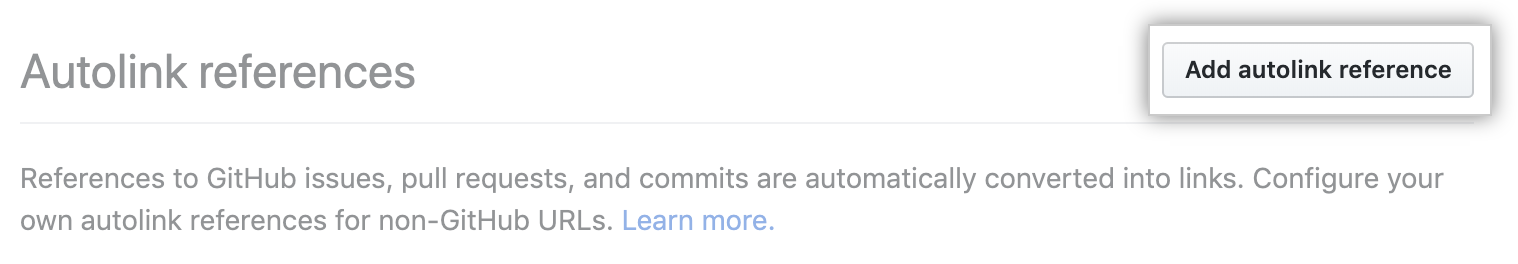
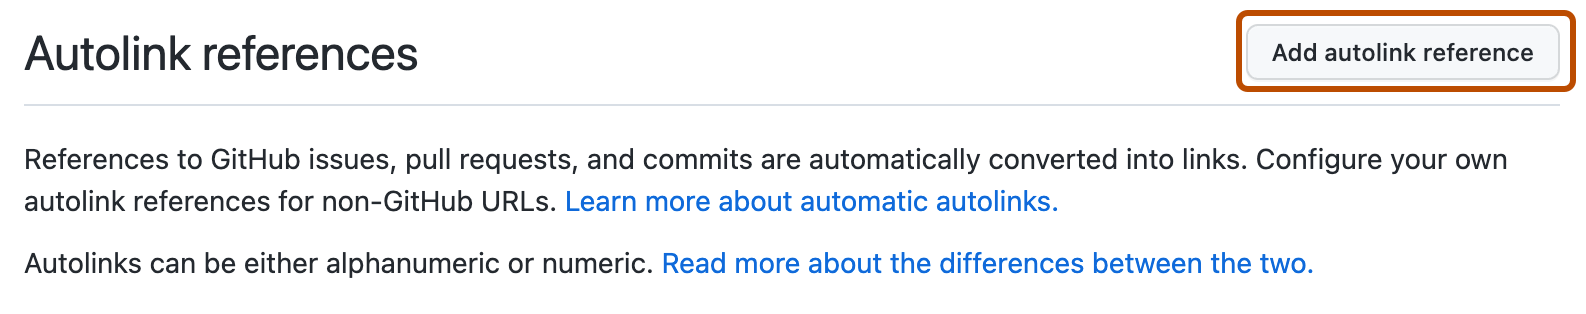
[Accessibility] More screenshot updates for `A` in the repositories directory (#34908)

diff --git a/content/repositories/managing-your-repositorys-settings-and-features/managing-repository-settings/configuring-autolinks-to-reference-external-resources.md b/content/repositories/managing-your-repositorys-settings-and-features/managing-repository-settings/configuring-autolinks-to-reference-external-resources.md
@@ -35,20 +35,21 @@ This procedure demonstrates how to configure autolinks to reference external res
 {% data reusables.repositories.navigate-to-repo %}
 {% data reusables.repositories.sidebar-settings %}
 {% ifversion fpt or ghec or ghes > 3.4 or ghae > 3.4 %}
-1. In the "Integrations" section of the sidebar, click **{% octicon "cross-reference" aria-label="The cross-reference icon" %} Autolink references**.
+1. In the "Integrations" section of the sidebar, click **{% octicon "cross-reference" aria-label="" %} Autolink references**.
 {% else %}
 1. In the left sidebar, click **Autolink references**.
-![Autolink references tab in the left sidebar.](/assets/images/help/repository/autolink-references-tab.png)
 {% endif %}
-1. Click **Add autolink reference**.
-![Button to fill out autolink reference information.](/assets/images/help/repository/add-autolink-reference-details.png)
+1. At the top right of the page, click **Add autolink reference**.
+
+  ![Screenshot of the "autolink references" page. The "Add autolink reference" button is highlighted by a dark orange outline.](/assets/images/help/repository/add-autolink-reference-details.png)
 {% ifversion autolink-reference-alphanumeric %}
-1. Select the format of the reference identifier used in the external resource, either alphanumeric or numeric.
-![Autolink format setting, alphanumeric or numeric.](/assets/images/help/repository/autolink-format-setting.png)
+1. Select the format of the reference identifier used in the external resource, either **Alphanumeric** or **Numeric**.
 {% endif %}  
-1. Under "Reference prefix", type a short, meaningful prefix you want collaborators to use to generate autolinks for the external resource.
-{% ifversion autolink-reference-alphanumeric %}![Field to type abbreviation for external system.](/assets/images/help/repository/add-reference-prefix-field-alphanumeric.png){% else %}![Field to type abbreviation for external system.](/assets/images/help/repository/add-reference-prefix-field.png){% endif %}
-1. Under "Target URL", type the link to the external system you want to link to. Use the `<num>` variable as a placeholder for the reference identifier.
-{% ifversion autolink-reference-alphanumeric %}![Field to type URL to external system.](/assets/images/help/repository/add-target-url-field-alphanumeric.png){% else %}![Field to type URL to external system.](/assets/images/help/repository/add-target-url-field.png){% endif %}
-1. Click **Add autolink reference**.
-{% ifversion autolink-reference-alphanumeric %}{% else %}![Button to add autolink reference.](/assets/images/help/repository/add-autolink-reference.png){% endif %}
+1. Under "Reference prefix", type a short, meaningful prefix. Collaborators will use this text to generate autolinks for the external resource.
+1. Under "Target URL", type the format of the link to the external system you want to create. Use the `<num>` variable as a placeholder for the reference identifier.
+1. Review the preview and verify that the autolink and external reference are both correct, then click **Add autolink reference** to define the link.
+
+For example, you might enter the following.
+- Reference prefix: `JIRA-`
+- Target URL: `https://jira.example.com/issue?query=<num>`
+- Preview: `JIRA-123` is converted to `https://jira.example.com/issue?query=123`

diff --git a/content/communities/setting-up-your-project-for-healthy-contributions/about-community-profiles-for-public-repositories.md b/content/communities/setting-up-your-project-for-healthy-contributions/about-community-profiles-for-public-repositories.md
@@ -17,15 +17,15 @@ The community profile checklist checks to see if a project includes recommended 
 
 ## Using the community profile checklist as a repository maintainer
 
-As a repository maintainer, use the community profile checklist to see if your project meets the recommended community standards to help people use and contribute to your project. For more information, see "[Building community](https://opensource.guide/building-community/)" in the Open Source Guides.
+As a repository maintainer, you can use the community standards checklist to see if your project meets the recommended community standards to help people use and contribute to your project. For more information, see "[Building community](https://opensource.guide/building-community/)" in the Open Source Guides.
 
-If a project doesn't have a recommended file, you can click **Add** to draft and submit a file.
+If a project doesn't have one of the recommended files, you can click the associated **Add** button to draft and submit a file.
 
-{% data reusables.repositories.valid-community-issues %} For more information, see "[AUTOTITLE](/communities/using-templates-to-encourage-useful-issues-and-pull-requests/about-issue-and-pull-request-templates)."
-
-![Community profile checklist with recommended community standards for maintainers](/assets/images/help/repository/add-button-community-profile.png)
+![Screenshot of the "Community Standards" maintainer checklist. Each item has an "Added" label (green checkmark) or a "Not added yet" label (orange circle).](/assets/images/help/repository/add-button-community-profile.png)
 
 {% data reusables.repositories.security-guidelines %}
+
+{% data reusables.repositories.valid-community-issues %} For more information, see "[AUTOTITLE](/communities/using-templates-to-encourage-useful-issues-and-pull-requests/about-issue-and-pull-request-templates)."
 
 ## Using the community profile checklist as a community member or collaborator
 
@@ -33,7 +33,7 @@ As a potential contributor, use the community profile checklist to see if a proj
 
 If a project doesn't have a recommended file, you can click **Propose** to draft and submit a file to the repository maintainer for approval.
 
-![Community profile checklist with recommended community standards for contributors](/assets/images/help/repository/propose-button-community-profile.png)
+![Screenshot of the "Community Standards" contributor checklist. Each item has an "Added" label (green checkmark) or a "Not added yet" label (orange circle).](/assets/images/help/repository/propose-button-community-profile.png)
 
 ## Further reading
 

diff --git a/content/communities/using-templates-to-encourage-useful-issues-and-pull-requests/configuring-issue-templates-for-your-repository.md b/content/communities/using-templates-to-encourage-useful-issues-and-pull-requests/configuring-issue-templates-for-your-repository.md
@@ -25,16 +25,15 @@ shortTitle: Configure
 
 {% data reusables.repositories.navigate-to-repo %}
 {% data reusables.repositories.sidebar-settings %}
-3. In the "Features" section, under "Issues," click **Set up templates**.
-![Start template setup button](/assets/images/help/repository/set-up-templates.png)
-4. Use the Add template drop-down menu, and click on the type of template you'd like to create.
-![Add template drop-down menu](/assets/images/help/repository/add-template-drop-down-menu.png)
+3. In the "Features" section, under "Issues," click **Set up templates**. You may need to enable "Issues" and refresh the page before you can see the button.
+4. Use the Add template dropdown menu, and click on the type of template you'd like to create.
+
+![Screenshot of the "Add template" dropdown menu expanded to show the standard "Bug report" and "Feature request" templates. In addition, the "Custom template" is listed.](/assets/images/help/repository/add-template-drop-down-menu.png)
 5. To preview or edit the template before committing it to the repository, click **Preview and edit**.
 ![Preview and edit button](/assets/images/help/repository/preview-and-edit-button.png)
 6. To edit the template, click {% octicon "pencil" aria-label="The edit icon" %}, and type in the fields to edit their contents.
 ![Issue template edit button](/assets/images/help/repository/issue-template-edit-button.png)
-7. To automatically set a default issue title, assign the issue to people with read access to the repository, or apply labels to your issue template, enter these details under "Optional additional information." You can also add these details in the issue template with `title`, `labels`, or `assignees` in a YAML frontmatter format.
-![Additional info for issue template](/assets/images/help/repository/additional-issue-template-info.png)
+7. To automatically set a default issue title, assign the issue to people with read access to the repository, or apply labels to issues raised from the template, use the fields under "Optional additional information." You can also add these details in the issue template with `title`, `labels`, or `assignees` in a YAML frontmatter format.
 8. When you're finished editing and previewing your template, click **Propose changes** in the upper right corner of the page.
 ![Propose changes button](/assets/images/help/repository/propose-changes-button.png)
 9. Enter a commit message describing your changes.

diff --git a/content/repositories/managing-your-repositorys-settings-and-features/customizing-your-repository/classifying-your-repository-with-topics.md b/content/repositories/managing-your-repositorys-settings-and-features/customizing-your-repository/classifying-your-repository-with-topics.md
@@ -46,9 +46,13 @@ When creating a topic:
 {% endnote %}
 
 {% data reusables.repositories.navigate-to-repo %}
-2. To the right of "About", click {% octicon "gear" aria-label="The Gear icon" %}.
-  ![Gear icon on main page of a repository](/assets/images/help/repository/edit-repository-details-gear.png)
-3. Under "Topics", type the topic you want to add to your repository, then type a space.
-  ![Form to enter topics](/assets/images/help/repository/add-topic-form.png)
-4. After you've finished adding topics, click **Save changes**.
-  !["Save changes" button in "Edit repository details"](/assets/images/help/repository/edit-repository-details-save-changes-button.png)
+2. In the top right corner of the page, to the right of "About", click {% octicon "gear" aria-label="Edit repository metadata" %}.
+  
+  ![Screenshot of the top right of the main page for a repository. The "Edit repository metadata" button, shown as a gear icon, is outlined in orange.](/assets/images/help/repository/edit-repository-details-gear.png)
+  
+3. Under "Topics", start to type the topic you want to add to your repository to display a dropdown menu of any matching topics. Click the topic you want to add or continue typing to create a new topic.
+  
+  ![Screenshot of the "Topics" field showing example topics: "docs" and "works-with-codespaces." A "Suggested" topic "documentation" is shown below.](/assets/images/help/repository/add-topic-form.png)
+  
+4. Optional, if there are "Suggested" topics displayed under the "Topics" field, click {% octicon "plus" aria-label="Add this topic" %} to add or {% octicon "dash" aria-label="Decline this topic" %} to decline the suggested topic.
+5. After you've finished adding topics, click **Save changes**.

diff --git a/content/repositories/managing-your-repositorys-settings-and-features/managing-repository-settings/configuring-tag-protection-rules.md b/content/repositories/managing-your-repositorys-settings-and-features/managing-repository-settings/configuring-tag-protection-rules.md
@@ -25,8 +25,6 @@ Additionally, you can create custom repository roles to allow other groups of us
 {% data reusables.repositories.sidebar-settings %}
 1. In the "Code and automation" section of the sidebar, click **{% octicon "tag" aria-label="The tag icon" %} Tags**.
 1. Click **New rule**.
-![New tag protection rule](/assets/images/help/repository/new-tag-protection-rule.png)
 1. Under "Tag name pattern", type the pattern of the tags you want to protect. In this example, typing "\*" protects all tags. 
-![Set tag protection pattern](/assets/images/help/repository/set-tag-protection-pattern.png)
+![Screenshot of the "Protected tags / New rule" page. The example pattern `*` is shown with the "Add rule" button. ](/assets/images/help/repository/tag-protection-rule.png)
 1. Click **Add rule**.
-![Add tag protection rule](/assets/images/help/repository/add-tag-protection-rule.png)

diff --git a/data/reusables/repositories/valid-community-issues.md b/data/reusables/repositories/valid-community-issues.md
@@ -1,1 +1,1 @@
-To be included in the community profile checklist, issue templates must be located in the `.github/ISSUE_TEMPLATE` folder and contain valid `name:` and `about:` keys in the YAML frontmatter (for issue templates defined in `.md` files) or valid `name:` and `description:` keys (for issue forms defined in `.yml` files).
+To be displayed with a {% octicon "check" aria-label="Added" %} checkmark in the community profile checklist, issue templates must be located in the `.github/ISSUE_TEMPLATE` folder and contain valid `name:` and `about:` keys in the YAML frontmatter (for issue templates defined in `.md` files) or valid `name:` and `description:` keys (for issue forms defined in `.yml` files).

diff --git a/content/communities/setting-up-your-project-for-healthy-contributions/accessing-a-projects-community-profile.md b/content/communities/setting-up-your-project-for-healthy-contributions/accessing-a-projects-community-profile.md
@@ -15,8 +15,7 @@ shortTitle: Access community profiles
 
 {% data reusables.repositories.navigate-to-repo %}
 {% data reusables.repositories.accessing-repository-graphs %}
-3. In the left sidebar, click **Community**.
-![Screenshot of the "Community" tab. The tab is highlighted with an orange outline.](/assets/images/help/graphs/graphs-sidebar-community-tab.png)
+3. In the left sidebar, click **Community Standards** to show the checklist for the community profile of the repository.
 
 ## Further reading
 

diff --git a/data/reusables/repositories/click-collaborators-teams.md b/data/reusables/repositories/click-collaborators-teams.md
@@ -1,1 +1,1 @@
-1. In the "Access" section of the sidebar, click **{% octicon "people" aria-label="The people icon" %} Collaborators & teams**.
+1. In the "Access" section of the sidebar, click **{% octicon "people" aria-label="" %} Collaborators & teams**.
